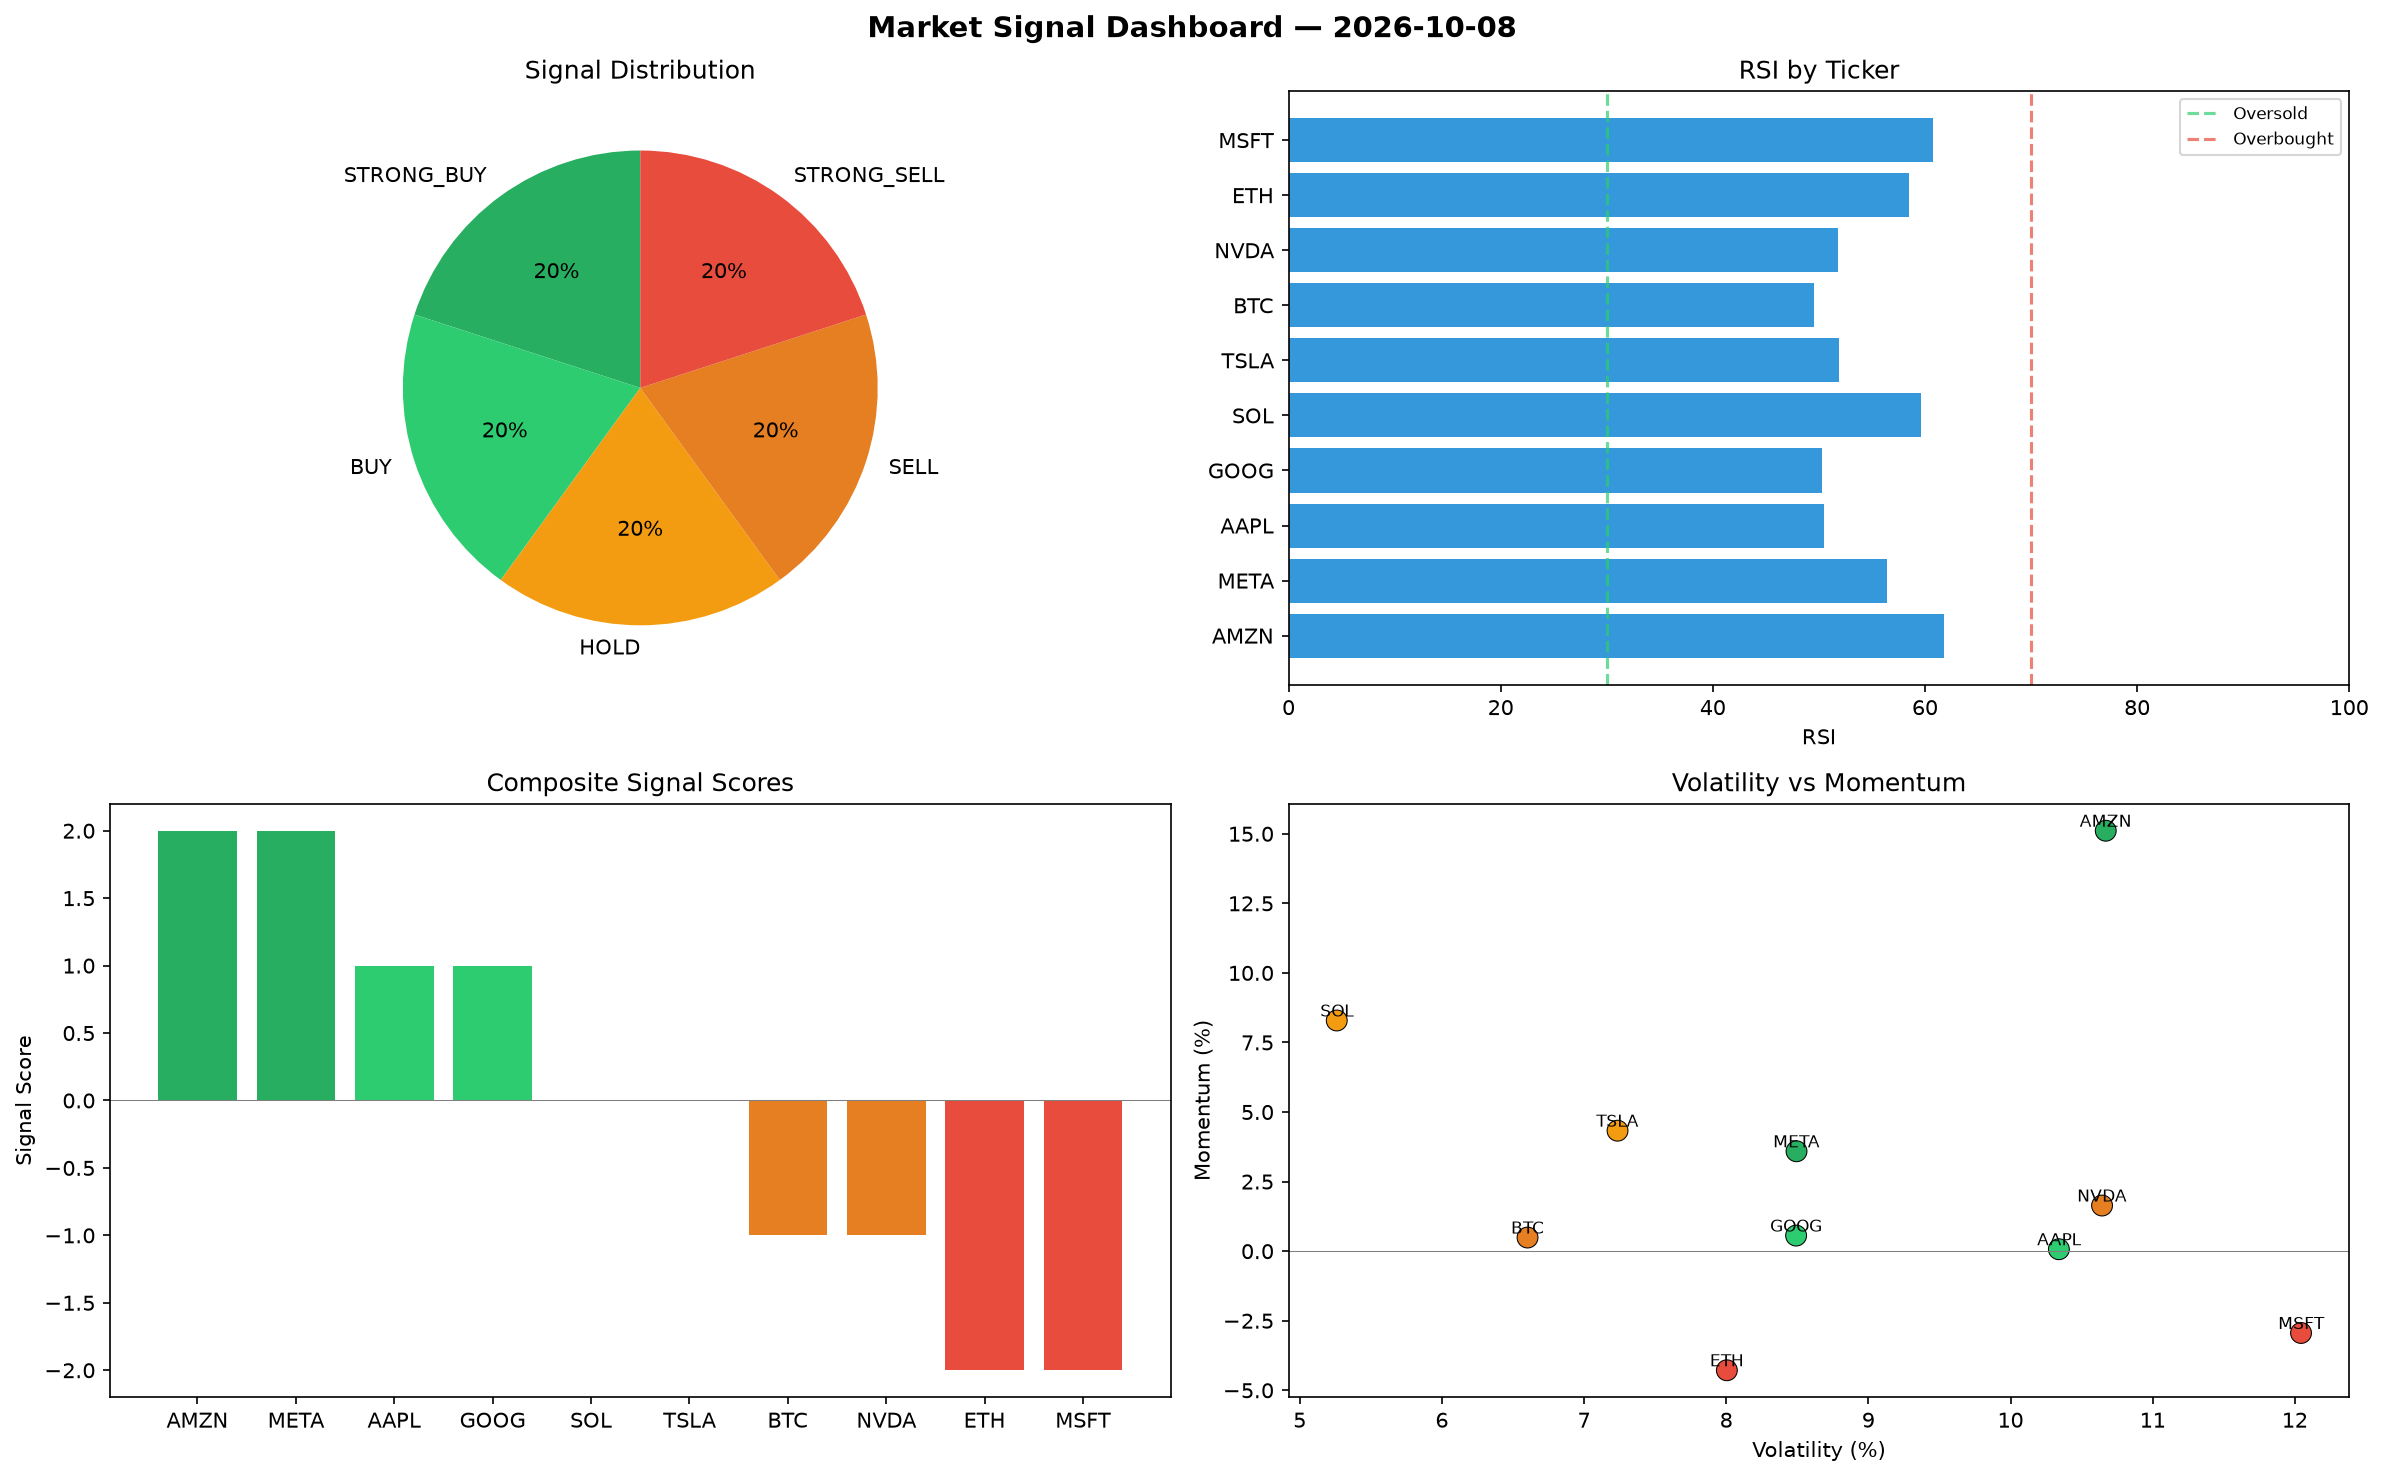
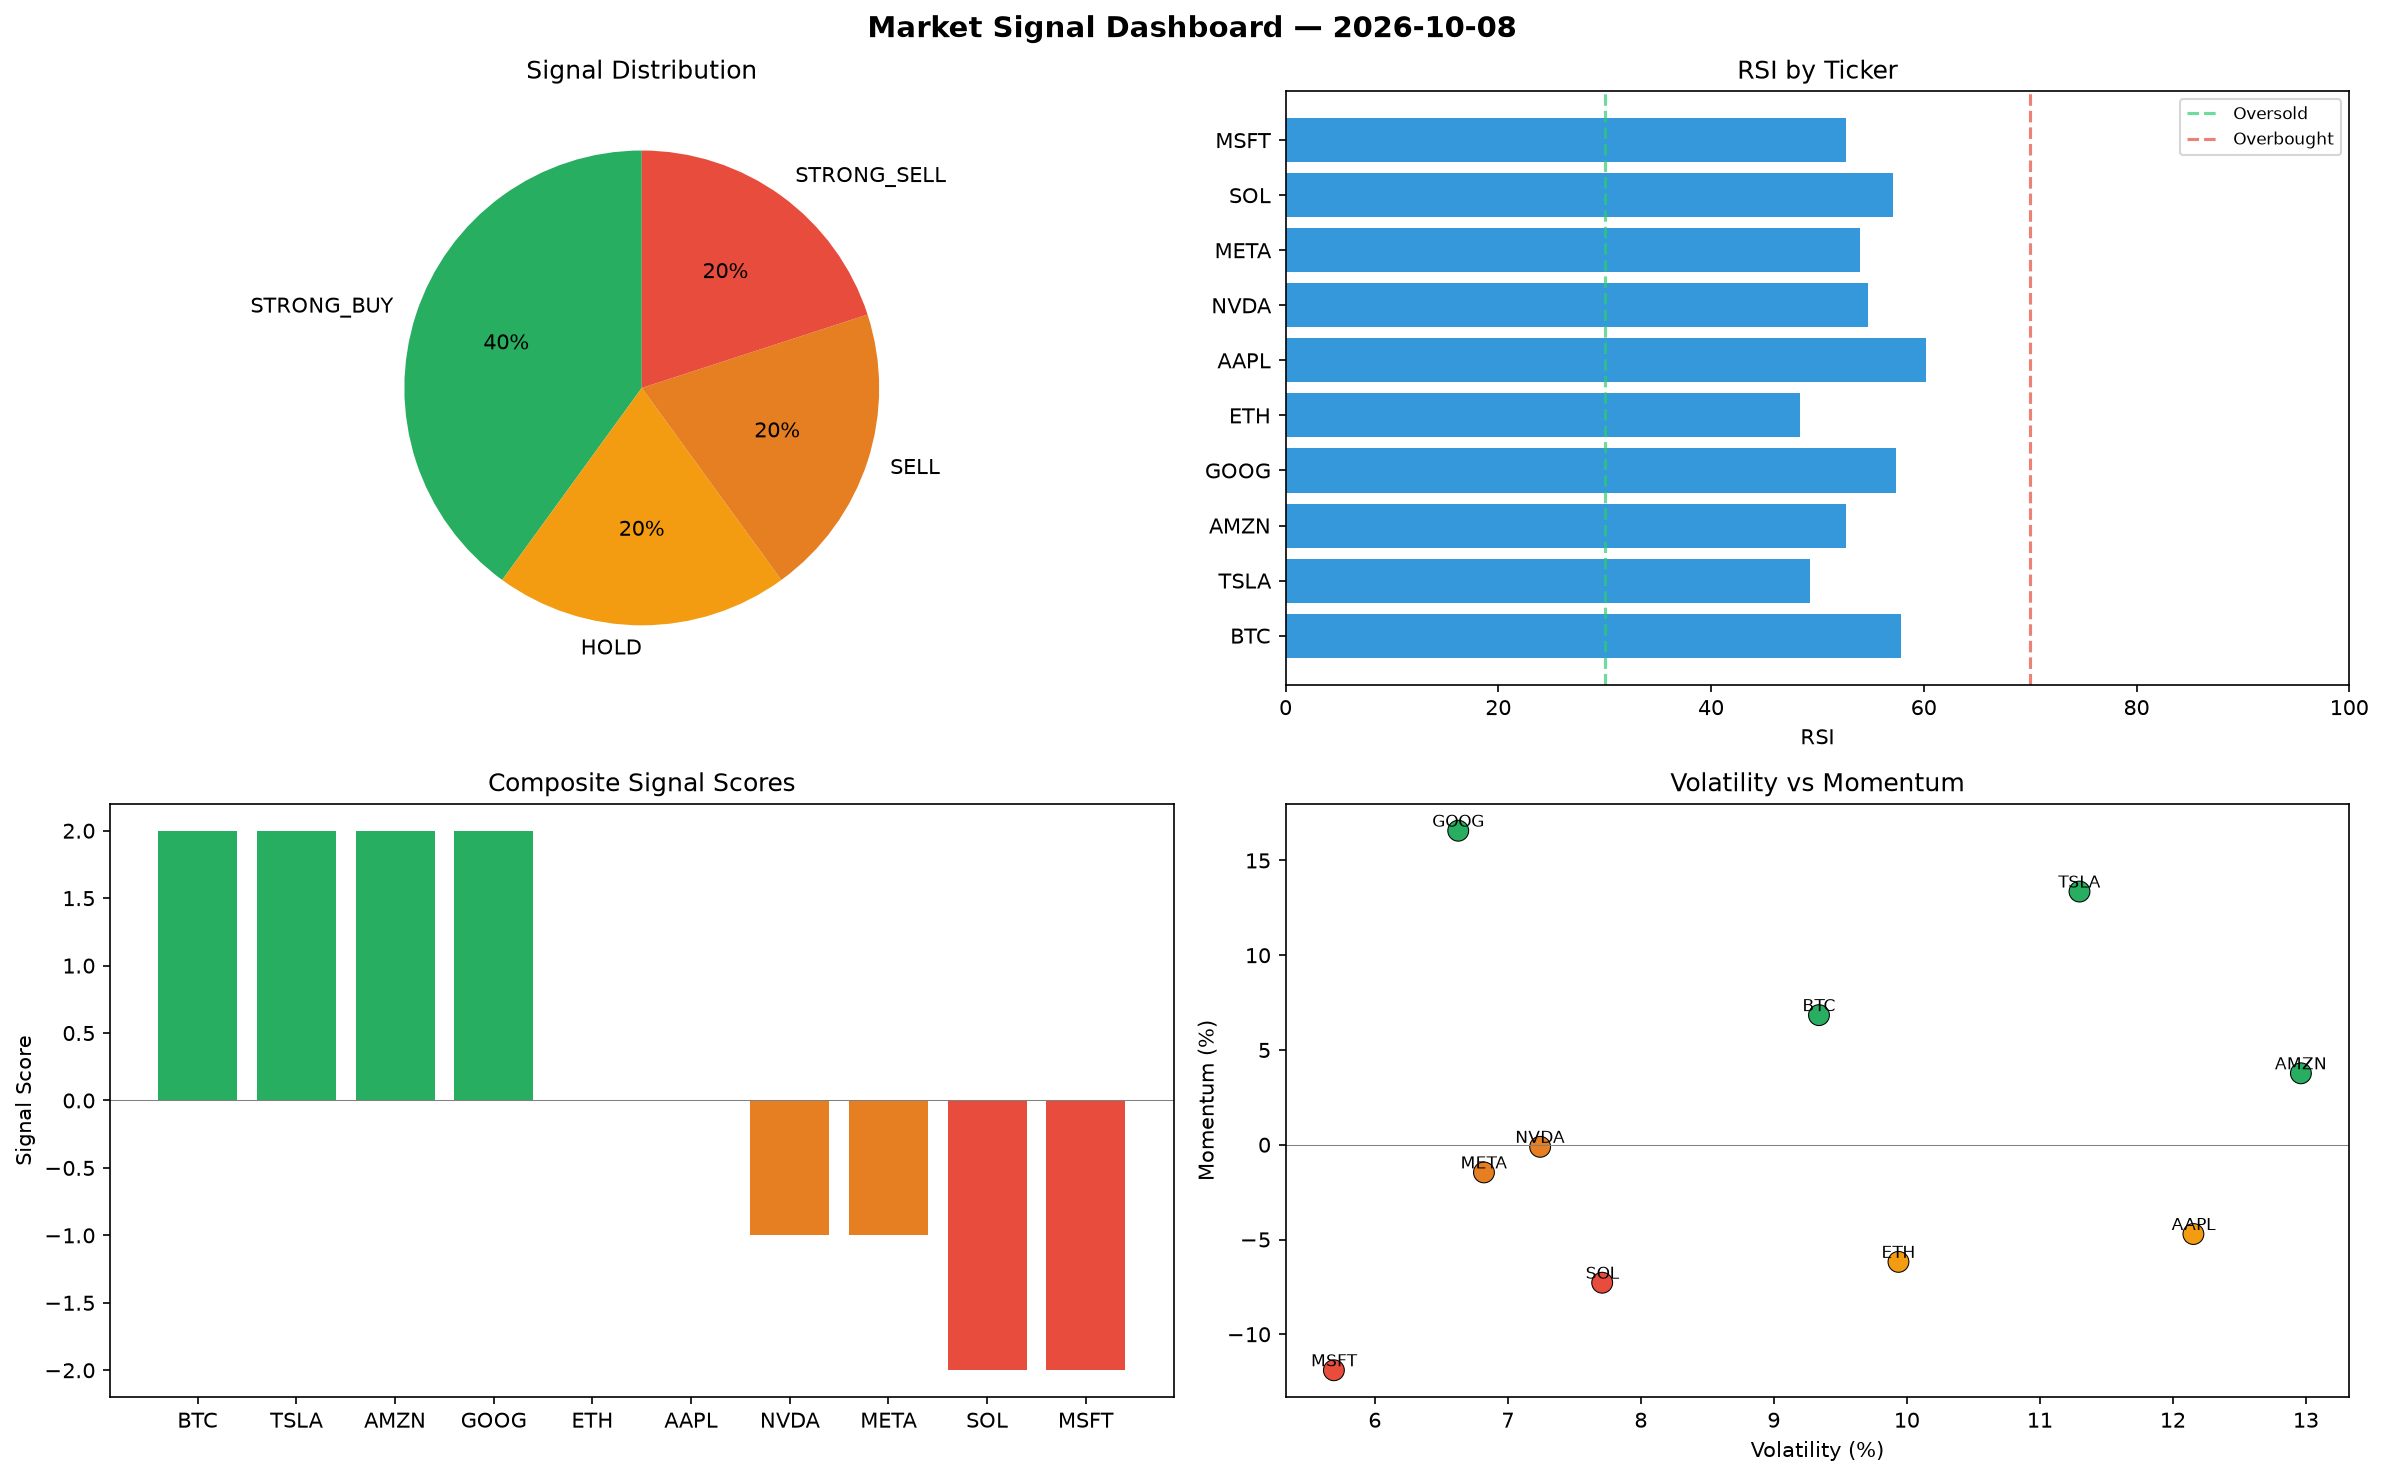
automated-bots: market signals 2026-10-08T09:17

diff --git a/logs/2026-10-08.md b/logs/2026-10-08.md
@@ -1,6 +1,6 @@
 # Market Signal Report — 2026-10-08
 
-**Run ID:** `9f89089371` | **Buy:** 4 | **Sell:** 4 | **Hold:** 2
+**Run ID:** `1a3ed956de` | **Buy:** 4 | **Sell:** 4 | **Hold:** 2
 
 ![Dashboard](2026-10-08_dashboard.png)
 
@@ -8,28 +8,28 @@
 
 | Ticker | Price | Signal | Score | RSI | Momentum | Confidence |
 |--------|-------|--------|-------|-----|----------|------------|
-| AMZN | $2411.35 | **STRONG_BUY** | 2 | 61.77 | 0.1511 | 0.5 |
-| META | $3195.58 | **STRONG_BUY** | 2 | 56.43 | 0.0359 | 0.5 |
-| AAPL | $2589.64 | **BUY** | 1 | 50.48 | 0.0007 | 0.25 |
-| GOOG | $3317.23 | **BUY** | 1 | 50.32 | 0.0056 | 0.25 |
-| SOL | $1708.09 | **HOLD** | 0 | 59.64 | 0.0829 | 0.0 |
-| TSLA | $4097.27 | **HOLD** | 0 | 51.9 | 0.0433 | 0.0 |
-| BTC | $483.43 | **SELL** | -1 | 49.56 | 0.0049 | 0.25 |
-| NVDA | $2718.5 | **SELL** | -1 | 51.8 | 0.0164 | 0.25 |
-| ETH | $4282.93 | **STRONG_SELL** | -2 | 58.52 | -0.0428 | 0.5 |
-| MSFT | $3848.14 | **STRONG_SELL** | -2 | 60.79 | -0.0294 | 0.5 |
+| BTC | $2407.09 | **STRONG_BUY** | 2 | 57.83 | 0.0684 | 0.5 |
+| TSLA | $586.07 | **STRONG_BUY** | 2 | 49.31 | 0.1336 | 0.5 |
+| AMZN | $2444.37 | **STRONG_BUY** | 2 | 52.67 | 0.0377 | 0.5 |
+| GOOG | $5086.74 | **STRONG_BUY** | 2 | 57.4 | 0.1657 | 0.5 |
+| ETH | $895.33 | **HOLD** | 0 | 48.35 | -0.0618 | 0.0 |
+| AAPL | $2707.19 | **HOLD** | 0 | 60.17 | -0.0471 | 0.0 |
+| NVDA | $2783.86 | **SELL** | -1 | 54.74 | -0.0011 | 0.25 |
+| META | $805.11 | **SELL** | -1 | 54.01 | -0.0146 | 0.25 |
+| SOL | $646.26 | **STRONG_SELL** | -2 | 57.14 | -0.0728 | 0.5 |
+| MSFT | $4200.43 | **STRONG_SELL** | -2 | 52.73 | -0.119 | 0.5 |
 
 ## Delta vs Yesterday
 
 | Ticker | Today | Yesterday | Price Change | Signal Changed |
 |--------|-------|-----------|-------------|----------------|
-| AMZN | STRONG_BUY | STRONG_SELL | 📈 30.54% | ⚠ YES |
-| META | STRONG_BUY | HOLD | 📈 297.21% | ⚠ YES |
-| AAPL | BUY | STRONG_BUY | 📈 24.01% | ⚠ YES |
-| GOOG | BUY | STRONG_BUY | 📉 -21.61% | ⚠ YES |
-| SOL | HOLD | STRONG_SELL | 📉 -57.62% | ⚠ YES |
-| TSLA | HOLD | HOLD | 📉 -17.48% | — |
-| BTC | SELL | SELL | 📉 -89.73% | — |
-| NVDA | SELL | STRONG_BUY | 📈 325.43% | ⚠ YES |
-| ETH | STRONG_SELL | STRONG_BUY | 📈 9883.52% | ⚠ YES |
-| MSFT | STRONG_SELL | SELL | 📈 43.42% | ⚠ YES |
+| BTC | STRONG_BUY | SELL | 📉 -48.85% | ⚠ YES |
+| TSLA | STRONG_BUY | HOLD | 📉 -88.2% | ⚠ YES |
+| AMZN | STRONG_BUY | STRONG_SELL | 📈 32.32% | ⚠ YES |
+| GOOG | STRONG_BUY | STRONG_BUY | 📈 20.21% | — |
+| ETH | HOLD | STRONG_BUY | 📈 1987.02% | ⚠ YES |
+| AAPL | HOLD | STRONG_BUY | 📈 29.64% | ⚠ YES |
+| NVDA | SELL | STRONG_BUY | 📈 335.66% | ⚠ YES |
+| META | SELL | HOLD | 📈 0.08% | ⚠ YES |
+| SOL | STRONG_SELL | STRONG_SELL | 📉 -83.97% | — |
+| MSFT | STRONG_SELL | SELL | 📈 56.55% | ⚠ YES |
